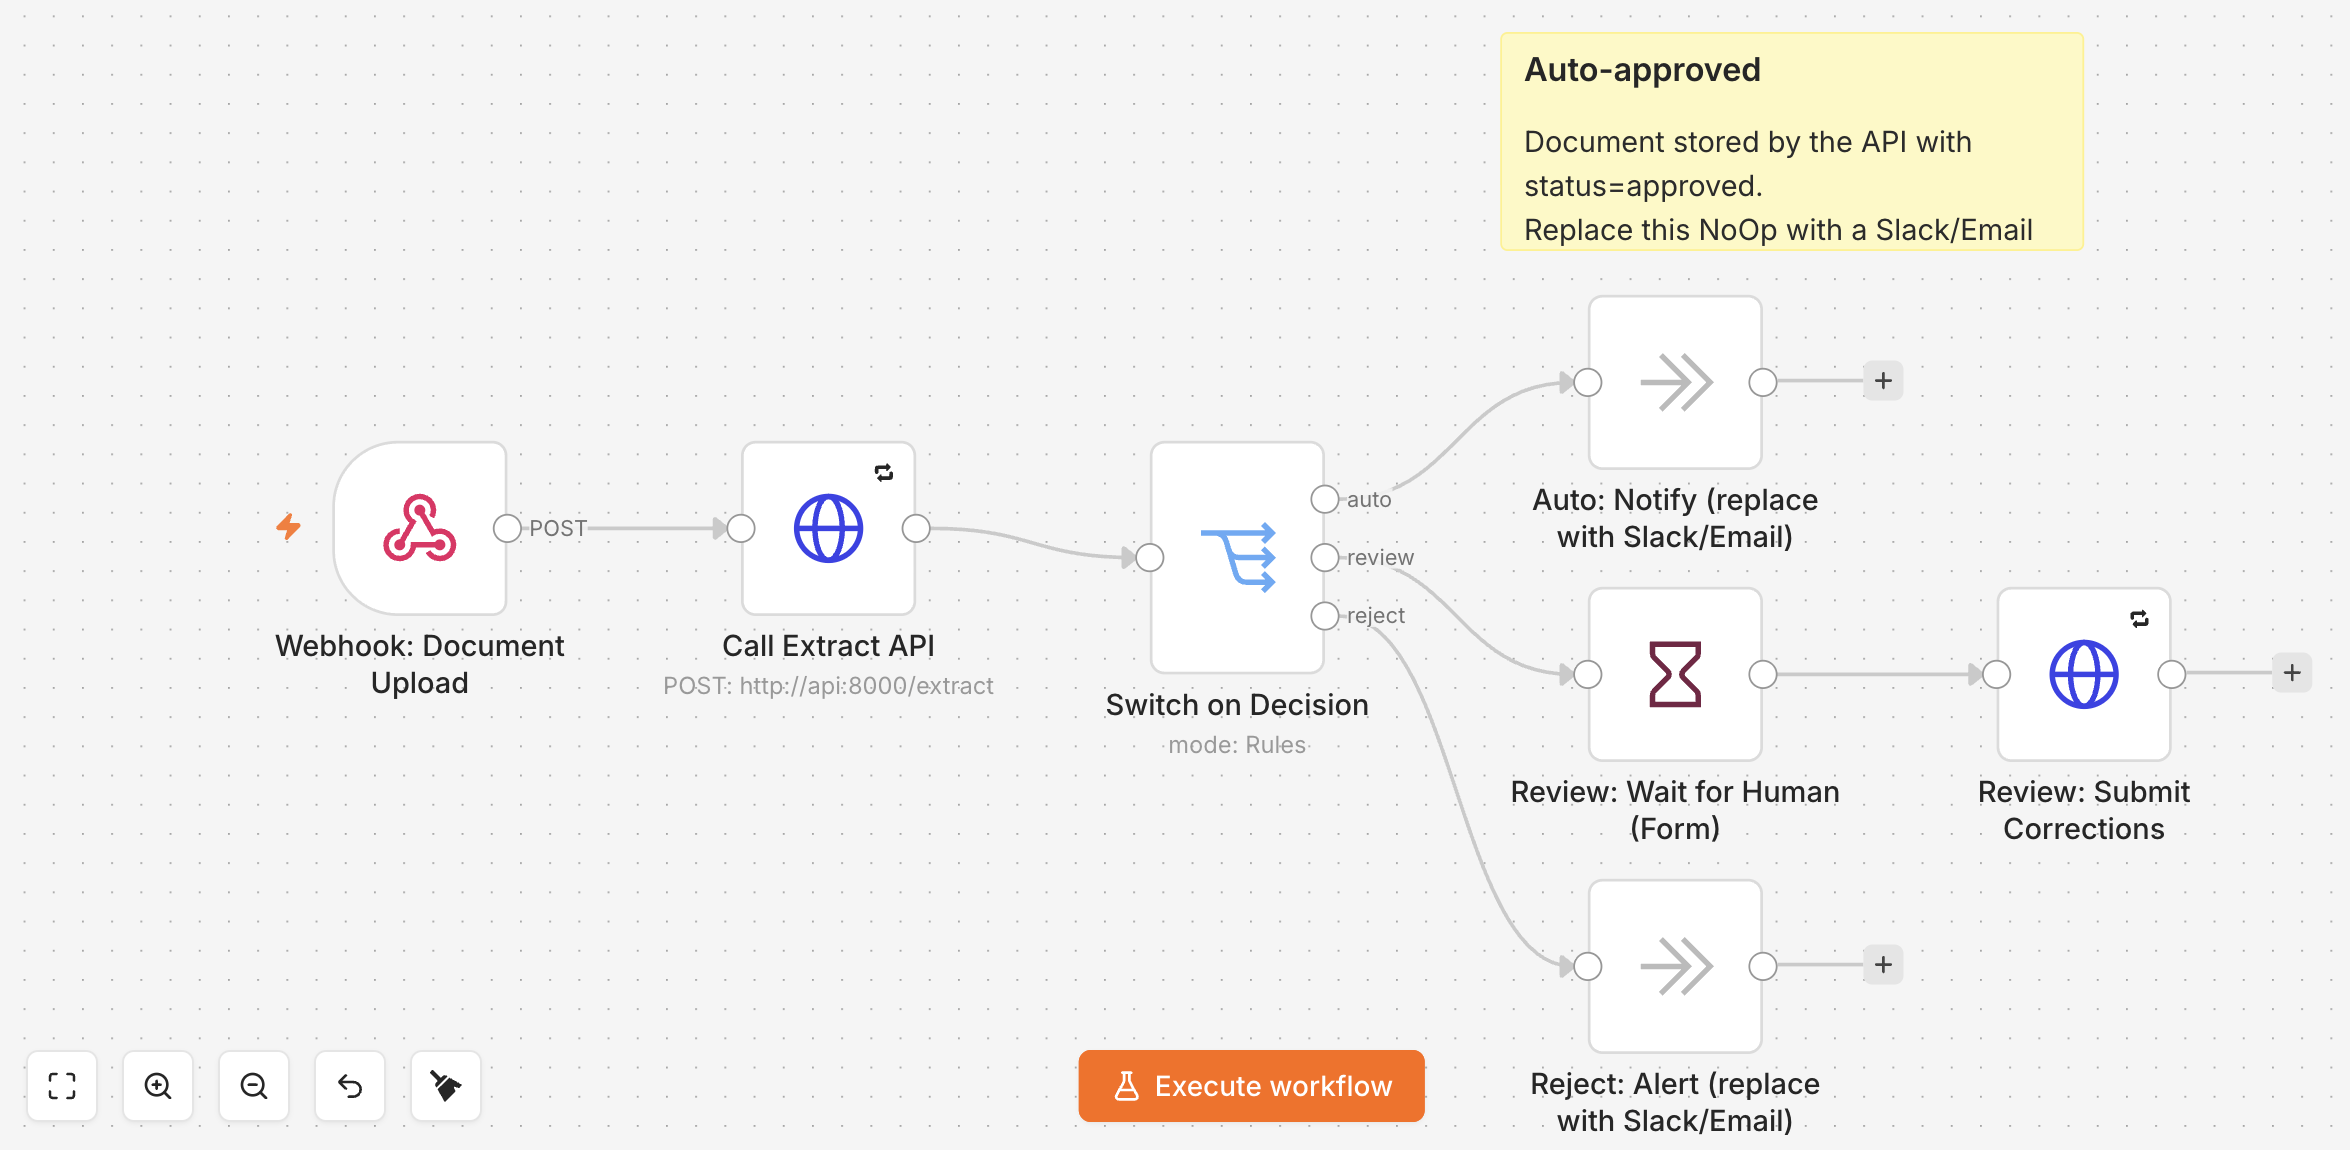
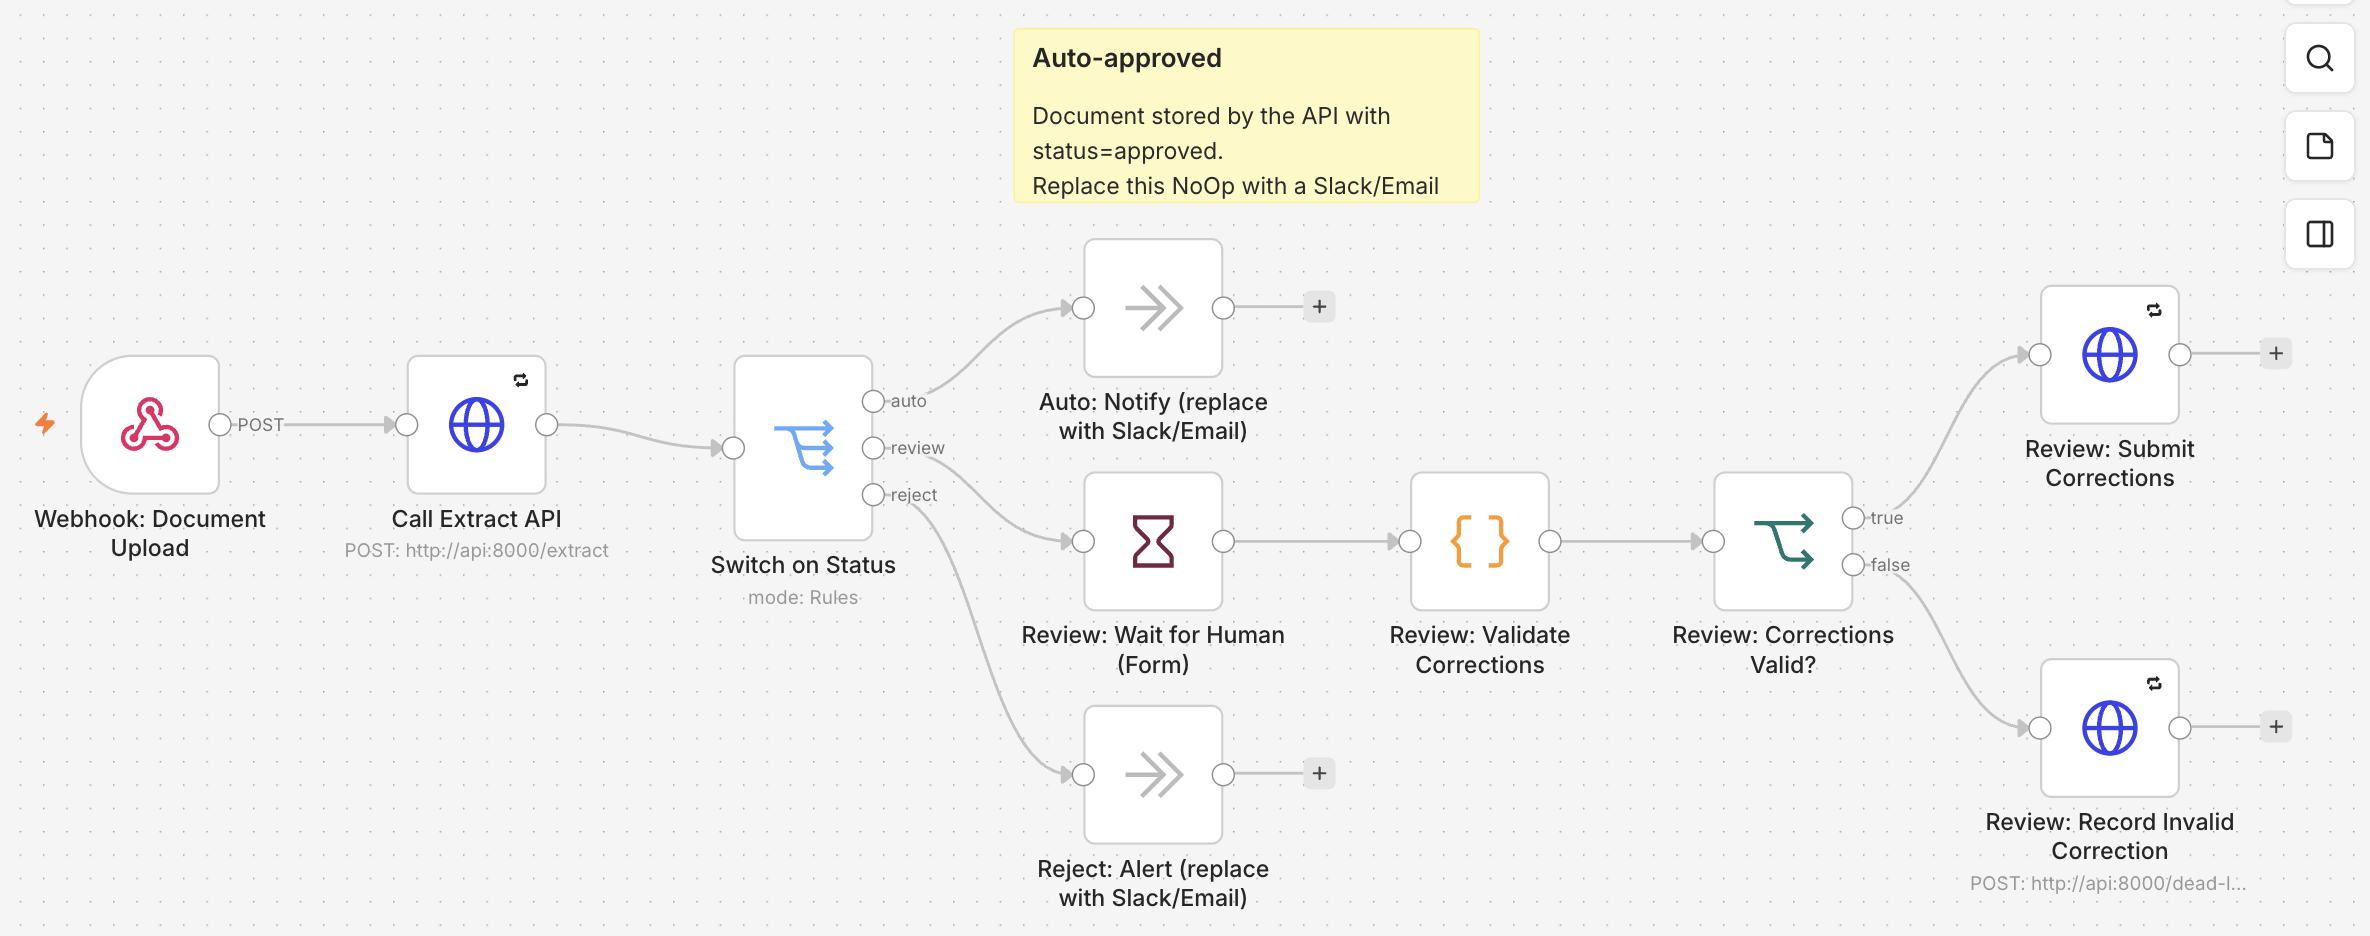
Refresh the n8n screenshots to match the current workflow
Both images predated the review-validation and dead-letter work: the canvas
still showed "Switch on Decision" with the review branch running straight into
Submit Corrections, and the execution trace was from before those nodes existed.

The new canvas shows Switch on Status and the full review path — Wait for Human,
Validate Corrections, Corrections Valid? — branching to either Submit
Corrections or Record Invalid Correction. The new trace is a complete HITL run
through that path. Alt text updated to describe what the images now show,
including the corrected runtime.

Claude-Session: https://claude.ai/code/session_01UYHNz4dUd7hMYGH5TTEDB1

diff --git a/README.md b/README.md
@@ -93,7 +93,7 @@ docker compose restart n8n            # publishing via CLI needs a restart to ta
 
 Both workflows carry fixed IDs, so the import is idempotent (re-running updates in place) and `doc_processing` already points its **Error Workflow** at `Error Handler` — no manual wiring. The error handler has to be published too: n8n skips an unpublished error workflow and only logs *"is not active and cannot be executed"*.
 
-![n8n canvas: Webhook receives the document, Call Extract API runs the three-layer engine, Switch on Decision branches into auto-approve notify, human-review wait-for-form, or reject alert](docs/n8n_workflow_canvas.png)
+![n8n canvas: Webhook receives the document, Call Extract API runs the three-layer engine, and Switch on Status branches three ways — auto-approve notify, reject alert, and the human-review path that waits on a form, validates the reviewer's corrections, then either submits them or records an invalid submission to the dead-letter queue](docs/n8n_workflow_canvas.png)
 
 > **n8n 2.x UI notes.** Activation was renamed — the top-right toggle is **Publish**, not *Active*. The GUI importer moved inside the editor: open a workflow, then **⋯ (top right) → Import from File**; pasting the JSON onto the canvas with `Cmd+V` also works.
 >
@@ -120,9 +120,9 @@ The `human_review` branch pauses on an **n8n Form** — the reviewer corrects th
 
 > **n8n Cloud:** import the same JSON, then change the two HTTP nodes' base URL from `http://api:8000` to a publicly reachable URL for the API (e.g. a `cloudflared`/`ngrok` tunnel to `localhost:8000`).
 
-An end-to-end run in the **Executions** tab — webhook in, rule/LLM extraction, decision switch, all green:
+A complete human-in-the-loop run in the **Executions** tab — webhook in, extraction, status switch, the reviewer's corrections validated and written back, every node on the path green:
 
-![n8n execution trace: a document flowing through Webhook → Call Extract API → Switch on Decision → Review branch, each node marked succeeded, total runtime 17.668s](docs/success_run.png)
+![n8n execution trace: execution ID#33 succeeded in 6.925s, one item flowing through Webhook → Call Extract API → Switch on Status → Review: Wait for Human (Form) → Review: Validate Corrections → Review: Corrections Valid? and out the true branch to Review: Submit Corrections, each node on the path marked succeeded](docs/success_run.png)
 
 ## Evaluation
 
